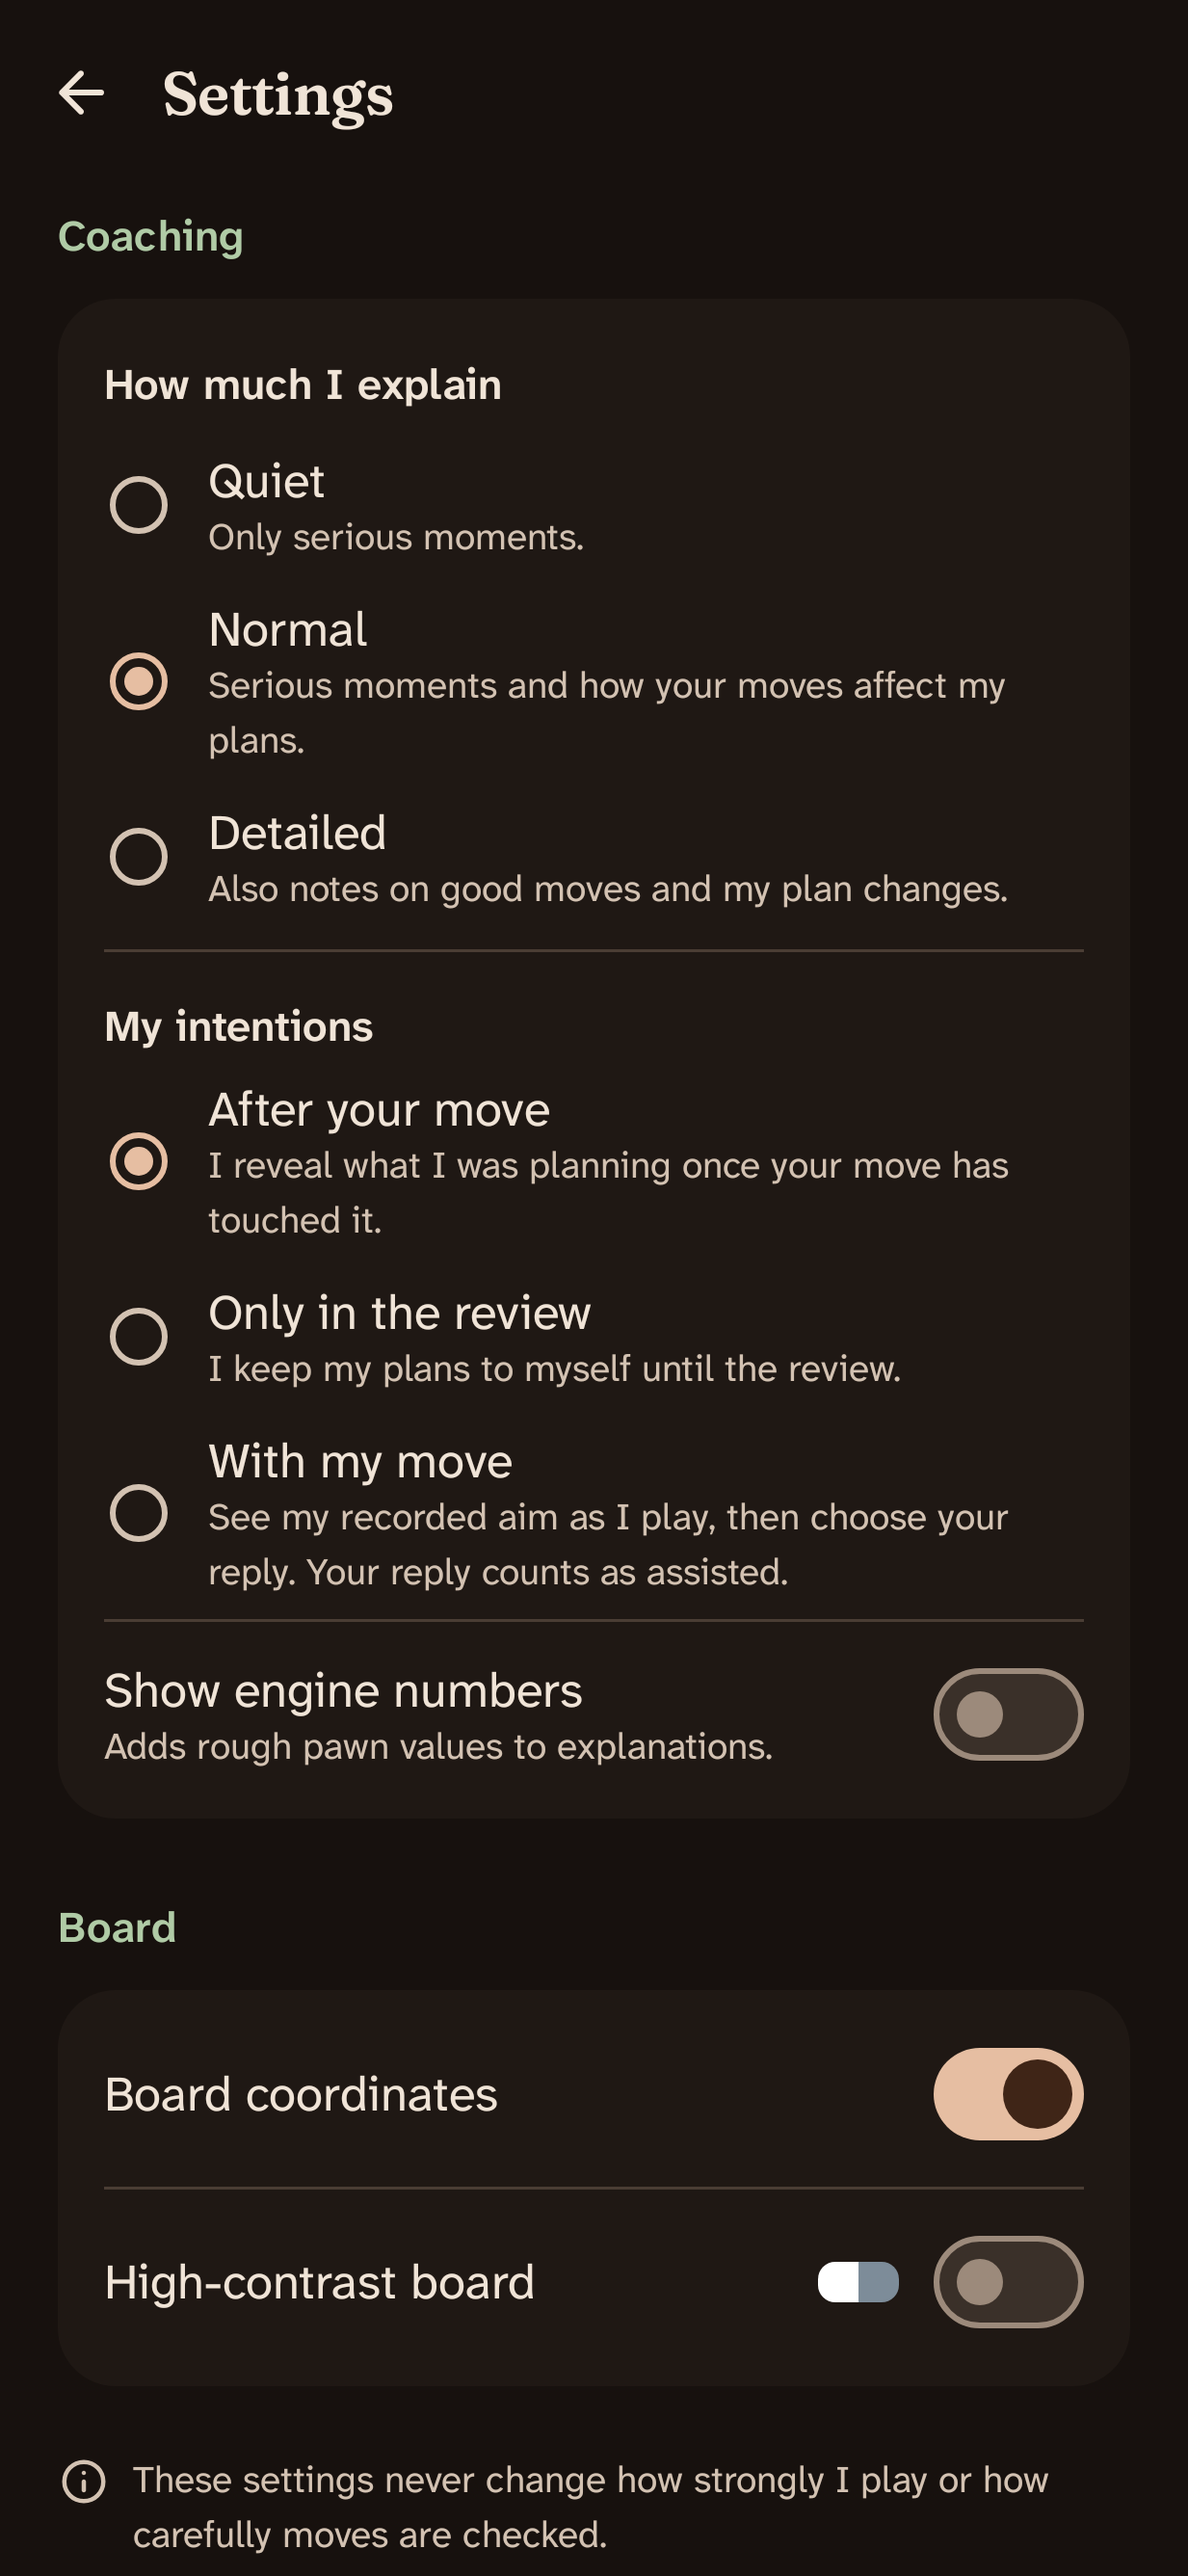
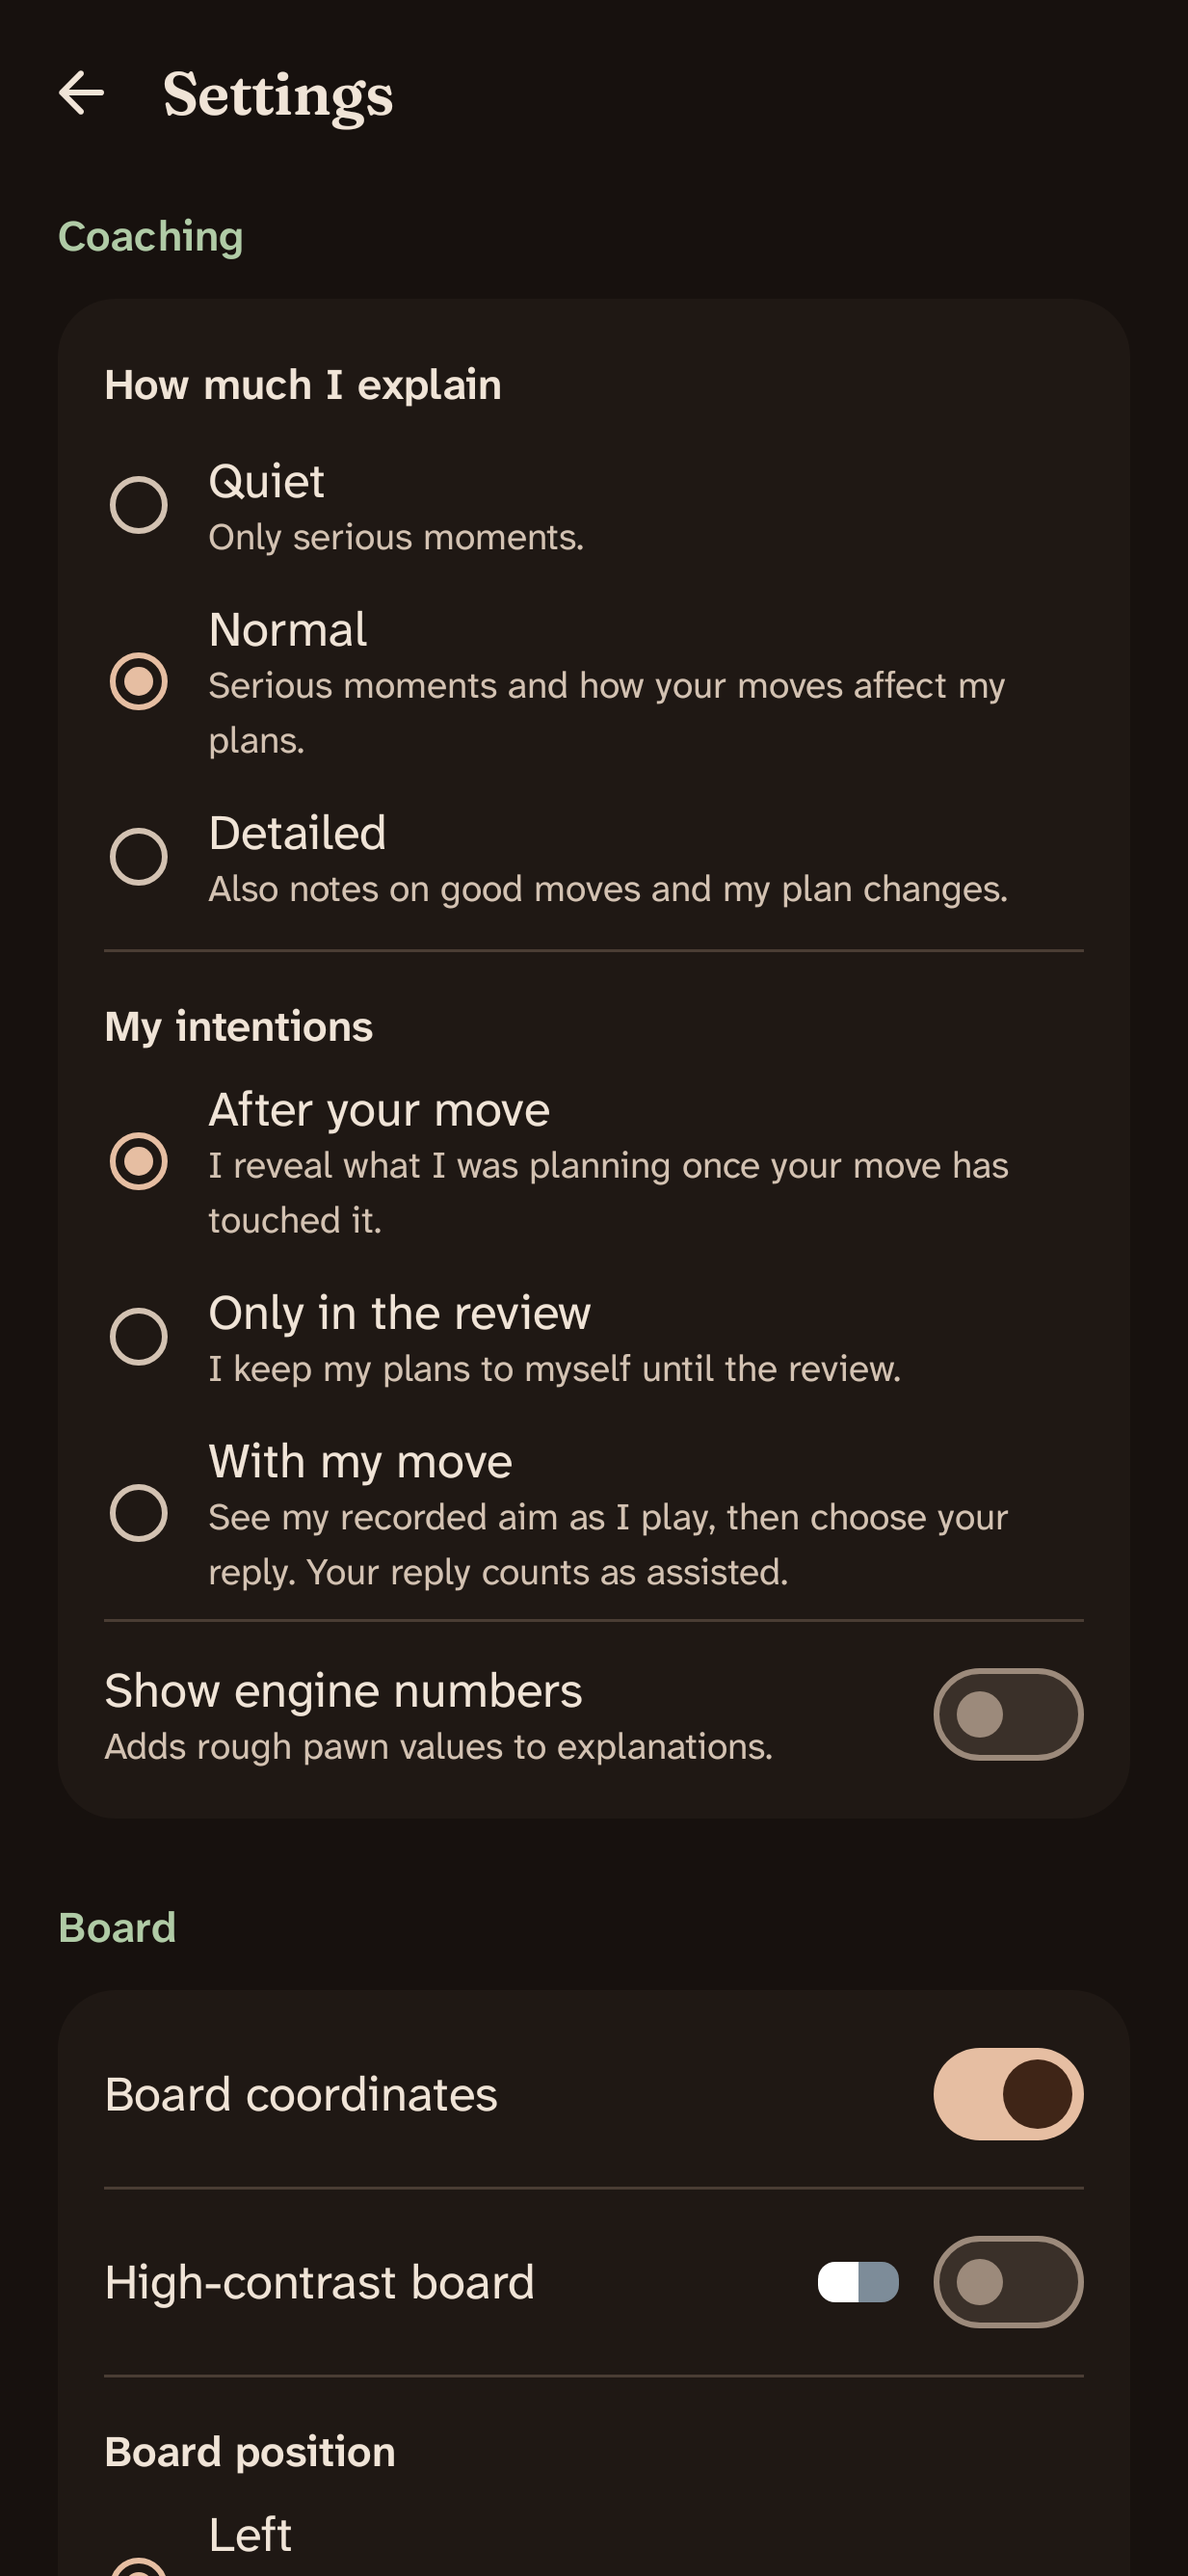
Add a setting to put the board on the right
Settings > Board > Board position chooses whether the board sits left
(the default) or right of the coaching in landscape and wide windows.
Left and right are physical sides, also in right-to-left layouts.
Portrait layouts are unchanged. Preferences saved before this setting
load with the board on the left.

Changed region(s): [[0.0616, 0.9315, 0.5239, 1.0]]

diff --git a/app/src/main/kotlin/ch/lkmc/chessandcocoa/ui/game/GameScreen.kt b/app/src/main/kotlin/ch/lkmc/chessandcocoa/ui/game/GameScreen.kt
@@ -7,6 +7,7 @@ import androidx.compose.foundation.layout.Arrangement
 import androidx.compose.foundation.layout.Box
 import androidx.compose.foundation.layout.BoxWithConstraints
 import androidx.compose.foundation.layout.Column
+import androidx.compose.foundation.layout.PaddingValues
 import androidx.compose.foundation.layout.Row
 import androidx.compose.foundation.layout.RowScope
 import androidx.compose.foundation.layout.WindowInsets
@@ -39,6 +40,7 @@ import androidx.compose.runtime.rememberUpdatedState
 import androidx.compose.ui.Alignment
 import androidx.compose.ui.Modifier
 import androidx.compose.ui.layout.Layout
+import androidx.compose.ui.platform.LocalLayoutDirection
 import androidx.compose.ui.res.painterResource
 import androidx.compose.ui.res.stringResource
 import androidx.compose.ui.semantics.isTraversalGroup
@@ -48,6 +50,7 @@ import androidx.compose.ui.text.style.TextAlign
 import androidx.compose.ui.text.style.TextOverflow
 import androidx.compose.ui.unit.Constraints
 import androidx.compose.ui.unit.Dp
+import androidx.compose.ui.unit.LayoutDirection
 import androidx.compose.ui.unit.dp
 import androidx.lifecycle.compose.collectAsStateWithLifecycle
 import ch.lkmc.chessandcocoa.R
@@ -56,6 +59,7 @@ import ch.lkmc.chessandcocoa.chess.Side
 import ch.lkmc.chessandcocoa.chess.Square
 import ch.lkmc.chessandcocoa.coach.decide.Difficulty
 import ch.lkmc.chessandcocoa.coach.evidence.MarkedSquare
+import ch.lkmc.chessandcocoa.coach.teach.BoardSide
 import ch.lkmc.chessandcocoa.coach.teach.TeachingEvent
 import ch.lkmc.chessandcocoa.session.EvidenceFrame
 import ch.lkmc.chessandcocoa.session.EvidenceLine
@@ -102,7 +106,8 @@ private class Evidence(val event: TeachingEvent, val frames: List<EvidenceFrame>
  *   [ Hint ]  [ Take back ]
  * ```
  *
- * Landscape and wide, near-square windows put the board on the left and coaching beside it.
+ * Landscape and wide, near-square windows put the board beside the coaching;
+ * the board side setting picks left (the default) or right.
  */
 @Composable
 fun GameScreen(session: GameSession, navigation: GameNavigation) {
@@ -259,7 +264,7 @@ fun GameScreen(session: GameSession, navigation: GameNavigation) {
             val roomBelowBoard = maxHeight - maxWidth - TOOLBAR_HEIGHT
             val nearSquare = maxWidth >= TWO_PANE_MIN_WIDTH && roomBelowBoard < STACKED_SCREEN_ROOM
             if (maxWidth > maxHeight || nearSquare) {
-                SideBySideGame(title, subtitle, navigation.onBack, menu, boardView, status, panel, actions)
+                SideBySideGame(title, subtitle, navigation.onBack, menu, state.preferences.boardSide, boardView, status, panel, actions)
             } else {
                 PortraitGame(title, subtitle, navigation.onBack, menu, boardView, status, panel, actions, state)
             }
@@ -369,6 +374,7 @@ private fun SideBySideGame(
     subtitle: String,
     onBack: () -> Unit,
     menu: @Composable () -> Unit,
+    boardSide: BoardSide,
     board: @Composable (Modifier) -> Unit,
     status: @Composable () -> Unit,
     panel: @Composable (HistoryPlacement) -> Unit,
@@ -377,15 +383,33 @@ private fun SideBySideGame(
     BoxWithConstraints(Modifier.fillMaxSize().windowInsetsPadding(WindowInsets.safeDrawing)) {
         // The board takes the full height it can, never more than most of the width.
         val side = minOf(maxHeight - Space.m * 2, maxWidth * WIDE_BOARD_SHARE)
-        Row(Modifier.fillMaxSize().padding(start = Space.m), horizontalArrangement = Arrangement.spacedBy(Space.s)) {
-            Box(Modifier.fillMaxHeight(), contentAlignment = Alignment.Center) {
-                board(Modifier.size(side).then(BoardTraversal))
+
+        // LEFT and RIGHT name physical sides, but a Row flips in a right-to-left layout,
+        // so the order in the Row follows the layout direction. The window-edge padding
+        // stays on the board's outer side, whichever slot it takes.
+        val boardFirst = (boardSide == BoardSide.LEFT) == (LocalLayoutDirection.current == LayoutDirection.Ltr)
+        val outerPadding = if (boardFirst) PaddingValues(start = Space.m) else PaddingValues(end = Space.m)
+
+        Row(Modifier.fillMaxSize().padding(outerPadding), horizontalArrangement = Arrangement.spacedBy(Space.s)) {
+            val boardPane: @Composable () -> Unit = {
+                Box(Modifier.fillMaxHeight(), contentAlignment = Alignment.Center) {
+                    board(Modifier.size(side).then(BoardTraversal))
+                }
             }
-            Column(Modifier.weight(1f).fillMaxHeight()) {
-                ScreenTopBar(title = title, subtitle = subtitle, onBack = onBack, windowInsets = WindowInsets(0), actions = { menu() })
-                status()
-                Box(Modifier.weight(1f).fillMaxWidth()) { panel(HistoryPlacement.IN_PANEL) }
-                actions()
+            val coachingPane: @Composable () -> Unit = {
+                Column(Modifier.weight(1f).fillMaxHeight()) {
+                    ScreenTopBar(title = title, subtitle = subtitle, onBack = onBack, windowInsets = WindowInsets(0), actions = { menu() })
+                    status()
+                    Box(Modifier.weight(1f).fillMaxWidth()) { panel(HistoryPlacement.IN_PANEL) }
+                    actions()
+                }
+            }
+            if (boardFirst) {
+                boardPane()
+                coachingPane()
+            } else {
+                coachingPane()
+                boardPane()
             }
         }
     }

diff --git a/app/src/main/kotlin/ch/lkmc/chessandcocoa/ui/settings/SettingsScreen.kt b/app/src/main/kotlin/ch/lkmc/chessandcocoa/ui/settings/SettingsScreen.kt
@@ -36,6 +36,7 @@ import androidx.compose.ui.semantics.Role
 import androidx.compose.ui.semantics.clearAndSetSemantics
 import androidx.compose.ui.unit.dp
 import ch.lkmc.chessandcocoa.R
+import ch.lkmc.chessandcocoa.coach.teach.BoardSide
 import ch.lkmc.chessandcocoa.coach.teach.CommentaryLevel
 import ch.lkmc.chessandcocoa.coach.teach.DisclosureSetting
 import ch.lkmc.chessandcocoa.coach.teach.ExperiencePreferences
@@ -92,6 +93,18 @@ fun SettingsScreen(preferences: ExperiencePreferences, onChange: (ExperiencePref
                     Toggle(stringResource(R.string.settings_coordinates), preferences.showCoordinates) { onChange(preferences.copy(showCoordinates = it)) }
                     GroupDivider()
                     Toggle(stringResource(R.string.settings_contrast), preferences.highContrastBoard, swatch = CocoaTheme.colors.highContrastBoard) { onChange(preferences.copy(highContrastBoard = it)) }
+                    GroupDivider()
+                    GroupTitle(stringResource(R.string.settings_board_side))
+                    Column(Modifier.selectableGroup()) {
+                        BoardSide.entries.forEach { side ->
+                            Choice(
+                                selected = preferences.boardSide == side,
+                                label = stringResource(boardSideLabel(side)),
+                                description = stringResource(boardSideDescription(side)),
+                                onSelect = { onChange(preferences.copy(boardSide = side)) },
+                            )
+                        }
+                    }
                 }
 
                 Row(Modifier.padding(vertical = Space.l), verticalAlignment = Alignment.Top) {
@@ -194,6 +207,16 @@ private fun disclosureDescription(setting: DisclosureSetting): Int = when (setti
     DisclosureSetting.WITH_MOVE -> R.string.disclosure_with_move_desc
     DisclosureSetting.AFTER_CHOICE -> R.string.disclosure_after_desc
     DisclosureSetting.REVIEW_ONLY -> R.string.disclosure_review_desc
+}
+
+private fun boardSideLabel(side: BoardSide): Int = when (side) {
+    BoardSide.LEFT -> R.string.board_side_left
+    BoardSide.RIGHT -> R.string.board_side_right
+}
+
+private fun boardSideDescription(side: BoardSide): Int = when (side) {
+    BoardSide.LEFT -> R.string.board_side_left_desc
+    BoardSide.RIGHT -> R.string.board_side_right_desc
 }
 
 private val ROW_HEIGHT = 56.dp

diff --git a/app/src/test/kotlin/ch/lkmc/chessandcocoa/data/PreferencesStoreTest.kt b/app/src/test/kotlin/ch/lkmc/chessandcocoa/data/PreferencesStoreTest.kt
@@ -1,0 +1,48 @@
+// SPDX-License-Identifier: GPL-3.0-or-later
+package ch.lkmc.chessandcocoa.data
+
+import android.content.Context
+import androidx.core.content.edit
+import ch.lkmc.chessandcocoa.coach.teach.BoardSide
+import org.junit.Test
+import org.junit.runner.RunWith
+import org.robolectric.RobolectricTestRunner
+import org.robolectric.RuntimeEnvironment
+import org.robolectric.annotation.Config
+import kotlin.test.assertEquals
+
+@RunWith(RobolectricTestRunner::class)
+@Config(sdk = [35], application = android.app.Application::class)
+class PreferencesStoreTest {
+
+    @Test
+    fun preferencesSavedBeforeTheBoardSideSettingLoadAsLeft() {
+        val context = RuntimeEnvironment.getApplication()
+        // JSON exactly as a version without the boardSide field wrote it.
+        context.getSharedPreferences(FILE, Context.MODE_PRIVATE).edit {
+            putString(
+                KEY,
+                "{\"commentary\":\"NORMAL\",\"disclosure\":\"AFTER_CHOICE\"," +
+                    "\"showNumbers\":false,\"showCoordinates\":true,\"highContrastBoard\":false,\"schemaVersion\":1}",
+            )
+        }
+
+        assertEquals(BoardSide.LEFT, PreferencesStore(context).load().boardSide)
+    }
+
+    @Test
+    fun theBoardSideSurvivesASaveAndLoad() {
+        val context = RuntimeEnvironment.getApplication()
+        val store = PreferencesStore(context)
+
+        store.save(store.load().copy(boardSide = BoardSide.RIGHT))
+
+        assertEquals(BoardSide.RIGHT, store.load().boardSide)
+    }
+
+    private companion object {
+        // The same file and key PreferencesStore reads; writing them directly is the point.
+        const val FILE = "experience"
+        const val KEY = "preferences"
+    }
+}

diff --git a/app/src/test/kotlin/ch/lkmc/chessandcocoa/ui/ScreensTest.kt b/app/src/test/kotlin/ch/lkmc/chessandcocoa/ui/ScreensTest.kt
@@ -43,6 +43,7 @@ import ch.lkmc.chessandcocoa.coach.analysis.Searcher
 import ch.lkmc.chessandcocoa.coach.decide.Difficulty
 import ch.lkmc.chessandcocoa.coach.game.Coach
 import ch.lkmc.chessandcocoa.coach.render.Renderer
+import ch.lkmc.chessandcocoa.coach.teach.BoardSide
 import ch.lkmc.chessandcocoa.coach.teach.ExperiencePreferences
 import ch.lkmc.chessandcocoa.coach.teach.DisclosureSetting
 import ch.lkmc.chessandcocoa.coach.teach.GameReview
@@ -523,6 +524,16 @@ class ScreensTest {
     fun landscapeKeepsTheBoardAndPanelSideBySide() {
         scholarWithKnightSelected()
         compose.onRoot().captureRoboImage(shot("landscape"))
+    }
+
+    @Test
+    @Config(qualifiers = "w891dp-h411dp-land-xxhdpi")
+    fun landscapePutsTheBoardOnTheRightWhenChosen() {
+        scholarWithKnightSelected(preferences = ExperiencePreferences(boardSide = BoardSide.RIGHT))
+        val board = compose.onNodeWithContentDescription("g8, black knight").getBoundsInRoot()
+        val coaching = compose.onNodeWithText("Your move").getBoundsInRoot()
+        assertTrue(coaching.right <= board.left, "the board should sit right of the coaching")
+        compose.onRoot().captureRoboImage(shot("landscape-board-right"))
     }
 
     @Test

diff --git a/coach/src/main/kotlin/ch/lkmc/chessandcocoa/coach/teach/Teaching.kt b/coach/src/main/kotlin/ch/lkmc/chessandcocoa/coach/teach/Teaching.kt
@@ -15,6 +15,10 @@ import kotlinx.serialization.Serializable
 @Serializable
 enum class CommentaryLevel { QUIET, NORMAL, DETAILED }
 
+/** Which physical side the board sits on where it lays out beside the coaching. */
+@Serializable
+enum class BoardSide { LEFT, RIGHT }
+
 /** When the opponent's intentions are revealed (Section 4.2). */
 @Serializable
 enum class DisclosureSetting {
@@ -41,6 +45,8 @@ data class ExperiencePreferences(
     val showCoordinates: Boolean = true,
     /** A plainer, higher-contrast board for readability (Section 4.5). */
     val highContrastBoard: Boolean = false,
+    /** Where the board sits beside the coaching, in landscape and wide windows. */
+    val boardSide: BoardSide = BoardSide.LEFT,
     val schemaVersion: Int = SCHEMA_VERSION,
 ) {
     companion object {

diff --git a/docs/DESIGN.md b/docs/DESIGN.md
@@ -83,7 +83,7 @@ Claims ([`Claims.kt`](../coach/src/main/kotlin/ch/lkmc/chessandcocoa/coach/evide
 
 The visual direction (concept Section 4.5) is "evening study": cream paper and cocoa ink by day, deep cocoa surfaces in the evening, following the system setting. All Compose colour lives in [`ui/theme`](../app/src/main/kotlin/ch/lkmc/chessandcocoa/ui/theme/Color.kt): every Material 3 role is set in both themes, and board and mark colours sit in `CocoaColors`. The window background in `res/values*/colors.xml` repeats the paper tone, because the platform theme cannot read Compose colours. Four accents carry fixed meanings: sage for guidance (selection, legal moves, "Show me why"), honey for the last move and hints, terracotta for check and serious news, and mulberry for teaching targets and threats. Fraunces sets headings and Atkinson Hyperlegible Next, drawn for low-vision readers, sets body text and notation.
 
-The board's size depends only on the window, so coaching never moves it. Landscape and wide, near-square windows place coaching beside the board; tall windows stack it below. Tapping feedback or "Show me why" replays its evidence on the main board, under a sage frame and a banner saying the game is unchanged; Back to game or system Back restores play. Piece marks follow their participants through captures; arrows and text describe the next move. An exposed-piece explanation can compare the capture with a stronger alternative that enables a recapture, checked on both branches and labeled as conditional. The last move slides into place only when the shown position advanced by exactly one move within the same line. Screen readers reach the status, coaching and actions before the board's 64 labelled squares.
+The board's size depends only on the window, so coaching never moves it. Landscape and wide, near-square windows place coaching beside the board; tall windows stack it below. A board position setting places the board on the left (the default) or the right in those layouts. Tapping feedback or "Show me why" replays its evidence on the main board, under a sage frame and a banner saying the game is unchanged; Back to game or system Back restores play. Piece marks follow their participants through captures; arrows and text describe the next move. An exposed-piece explanation can compare the capture with a stronger alternative that enables a recapture, checked on both branches and labeled as conditional. The last move slides into place only when the shown position advanced by exactly one move within the same line. Screen readers reach the status, coaching and actions before the board's 64 labelled squares.
 
 ## 5. Measured results
 
